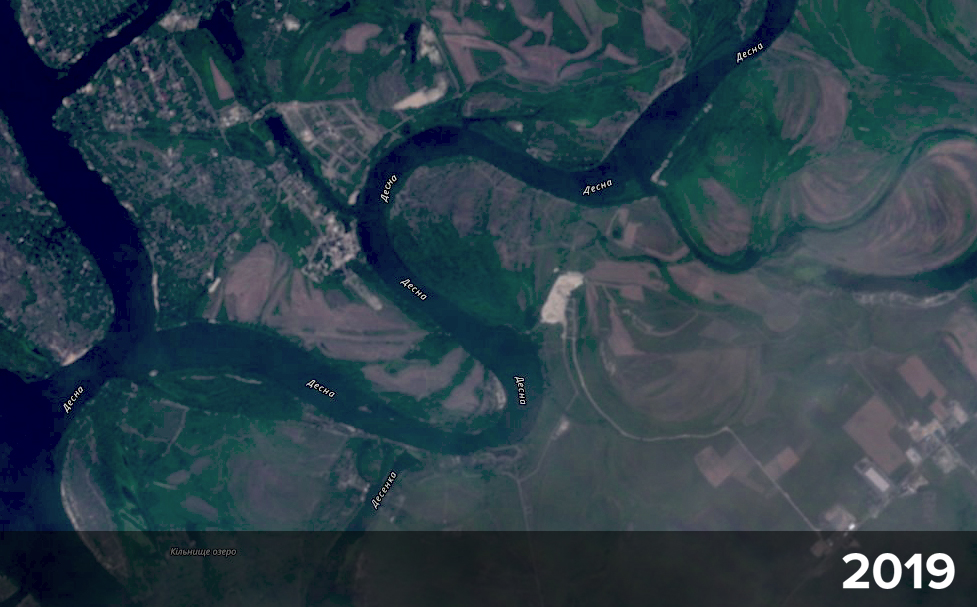
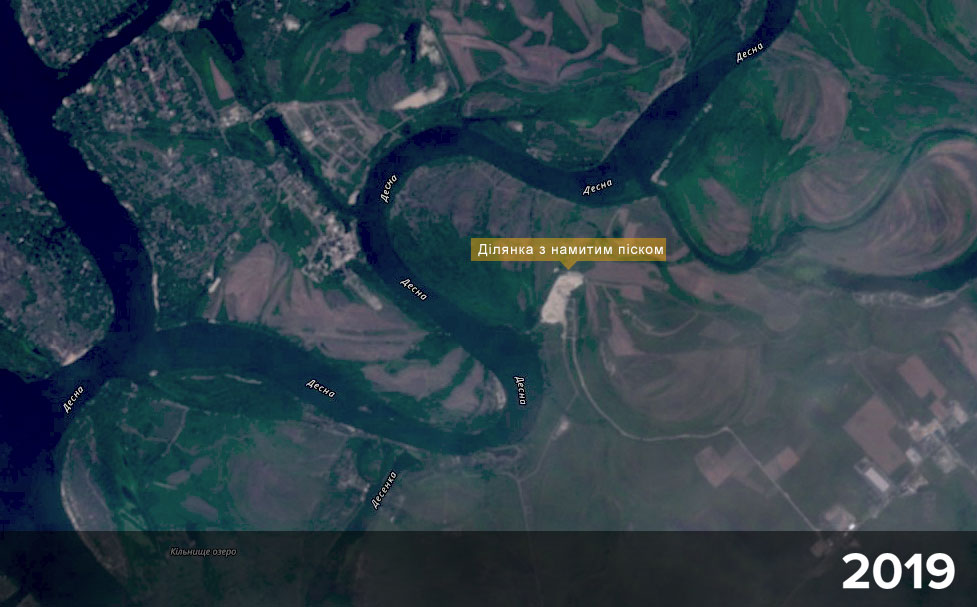
нові карти бокові

Changed region(s): [[0.4606, 0.3855, 0.7062, 0.4448]]

diff --git a/index.html b/index.html
@@ -88,11 +88,12 @@
 
     <p>Намивати пісок у Києві почали ще в 70-х роках минулого століття.  Фактично, Оболонь та всі житлові райони лівого берега Києва споруджені на намитих територіях. Проте пісок для намиву в ті часи переважно брали не з Дніпра, а видобували кар’єрним способом. На місці тих кар’єрів у Києві є кілька озер – зокрема, Тягле та Вирлиця.</p>
 
-        <aside>
-            <img src="img/01.jpg">
-        </aside>
 
     <p>«Золота доба» комерційного намиву почалася зо два десятки років тому. Саме тоді «нова» українська еліта відкрила для себе Конча-Заспу, територію на межі Києва та селища Козин. Тут жваво взялися зводити приватні будинки, переважно на намитих ділянках. Як відомо, попит породжує пропозицію – і в Кончі-Заспі розгорнулася справжня намивна лихоманка. Ділки активно починають використовувати землерийні снаряди, а також відпрацьовують схеми з отримання дозволів на видобуток піску. Беруть його тут же поруч – у Дніпрі. Такі самі процеси згодом починаються навпроти Кончі-Заспи, на лівому березі Дніпра. Загалом, за оцінкою еколога Олексія Василюка, з обох боків річки у цій її частині за допомогою намиву було утворено до 5 тисяч га нових шматків суходолу. </p>
+
+    <aside>
+        <img src="img/01.png">
+    </aside>
 
     <div class="content">
     <text>Тягніть слайдер, щоб побачити зміни берегової лінії в районі Конча-Заспи:</text>
@@ -110,7 +111,11 @@
     <p>Тільки-но елітна активність в Кончі-Заспі пішла на спад, як поряд відкрився новий потужний ринок. Це прокинувся Київ, у якому починався будівельний бум. На обслуговування столичного ринку спрямувала свої зусилля більшість намивачів піску. І його почали видобувати всюди – з Дніпра, Десни, київських озер і навіть з невеликих річок, які дивом збереглися.</p>
 
     <text>Видобуток піску в Десні поблизу Києва. Відео Дмитра Демченка:</text>
-    <div class="full-screen-content">
+
+    <aside>
+        <img src="img/02.png">
+    </aside>
+    <div class="fcontent">
         <video class="wide" controls="controls">
             <source src="video/DJI_0022.MP4">
         </video>
@@ -122,12 +127,11 @@
 
     <p>Навіть за наявності легальних дозволів чи погоджень на практиці неможливо проконтролювати, скільки піску добувають насправді. Не кажучи вже про те, що дехто робить це взагалі без жодних дозволів. Проблеми з паперами, здається, жодним чином не впливають на активність та амбіції намивачів. Іноді вони діють так, ніби ніяких законів в Україні не існує, беручи пісок як хочуть і де хочуть.</p>
 
-    <aside>
-        <img src="img/02.jpg">
-    </aside>
-
     <p>Одне з таких місць намиву розташоване буквально за кілька кілометрів від міської смуги, на Десні. Недалеко від цього місця за течією річки є родовище, яке нібито перебуває в розробці, але кордони родовища ніяким чином не перетинаються з місцем намиву. Про це місце знають активісти, тут неодноразово спалахували скандали, але пісок продовжують мити, а піщаний терикон стає все вищим. </p>
 
+    <aside>
+        <img src="img/03.png">
+    </aside>
     <div class="content">
         <text>Тягніть слайдер, щоб побачити, як створювався та розширювався майданчик по видобутку піску на Десні:</text>
         <div class="ba-slider">
@@ -149,7 +153,7 @@
     <p class="note">Але найнеприємніша знахідка очікує попереду. З одного боку під териконом б’є справжній гейзер брудної води, яку закачали разом з піском по трубі на берег, а тепер вона стікає знову до річки. Тобто, вздовж терикону тягнеться справжній потік брудної каламуті, який, впадаючи в річкові води, забарвлює їх у брунатний колір. І все це – менш ніж за кілометр від міського водозабірника, розташованого нижче по течії, вода з якого надходить до кранів киян.</p>
 
     <text>Біля терикону б'є справжній гейзер каламутної води, затягнутої земснарядом разом із піском:</text>
-    <div class="full-screen-content">
+    <div class="content">
         <video class="wide" controls="controls">
             <source src="video/20191016_122535.mp4">
         </video>
@@ -162,10 +166,6 @@
 
     <p>Інформація, яка є у відкритому доступі, свідчить, що «Балаклія» є власністю товариства з обмеженою відповідальністю з промовистою назвою «СОБІ». Згідно з відкритими даними в інтернеті, засновниками цього ТОВ є далеко не «випадкові» люди. Так, у базі помічників народних депутатів «Посіпаки» знаходимо одного з засновників ТОВ – Сергія Надєєва. Він був одночасно помічником на громадських засадах народних депутатів Верховної Ради 6 скликання (2007 – 2012 рр.) Сергія Соболєва (БЮТ) та Віталія Хомутиніка (Партія регіонів). Інший засновник – Анатолій Шалоплут – був помічником народного депутата 4 скликання Василя Горбаля (Партія регіонів). «СОБІ» має цілу флотилію буксирів та барж, серед заявлених в інтернеті послуг — продаж і доставка піску цілими баржами. Компанія також отримала спеціальний дозвіл на видобування піску на двох ділянках родовища “Деснянське-нижнє” на Десні.</p>
 
-    <aside>
-        <img src="img/04.jpg">
-    </aside>
-
     <p>Зовсім недалеко від цього місця, навпроти острова Муромець та впадіння Десни в Дніпро, є ще одне дуже популярне місце намиву. Баржі та земснаряди тут перебувають практично в межах Києва, навпроти одного з найбільших столичних парків «Дружби народів». З огляду на дані Автоматичної ідентифікаційної системи суден, це місце є улюбленим для багатьох компаній, у віданні яких є буксири, земснаряди чи баржі.</p>
 
     <p>Добувати тут зручно ще й тому, що місця складування піску – зовсім поруч, на Рибальському півострові та в його гавані. На тамтешній вулиці Електриків вказано багато юридичних адрес компаній та організацій, що торгують піском. Зокрема, є там і юридична адреса вже згаданого ТОВ «СОБІ».</p>
@@ -174,29 +174,31 @@
 
     <p>Трохи південніше за течією Дніпра, в районі Видубичів, теж є кілька майданчиків зі складування намитого піску. Зокрема, тут знаходиться промисловий майданчик одного з найбільших споживачів будматеріалу в Києві, а можливо і в Україні. Мова йде про Завод залізобетонних конструкцій ім. Ковальської. Загалом, промислово-будівельна група «Ковальська» оцінює свою річну потужність із виробництва товарних бетонів і розчинів у 4,6 млн кубометрів. Якщо брати до уваги, що для виготовлення одного кубометра бетону необхідно 0,4 – 0,8 тонн піску, то річна потреба «Ковальської» в ньому має становити в середньому понад два з половиною мільйони тонн. Цікаво, що при таких потребах «Ковальська» ще й знаходить можливість торгувати піском.</p>
 
+    <img class="wide" src="img/map.png">
+
     <p>Зовсім поруч із ділянкою «Ковальської» – Південний міст. Впродовж багатьох років активісти та громадські організації наголошували на незаконному намиванні піску безпосередньо біля мосту, що, за їхніми словами, негативно вплинуло на стан конструкції. Проте і сьогодні тут працюють буксири.</p>
 
     <p>Поряд із цим місцем є ще одна ділянка зі складування піску, яка належала «Мостобуду», що на сьогодні перебуває в процесі банкрутства. Згідно з даними сторони обвинувачення <a href="https://youcontrol.com.ua/catalog/court-document/80325658/" target="_blank">в судовій справі, що розглядалася Печерським районним судом на початку 2019 року</a>, на цій ділянці було зафіксовано складування річкового піску, а також «наявність спеціальної техніки» для його намиву. При цьому, серед техніки був земснаряд, що належав уже відомому нам ТОВ «СОБІ». Варто зазначити, що біля цієї ділянки дотепер спостерігається активність буксирів.</p>
 
     <p>Нижче за течією – між островом Водників та лівим берегом Дніпра – простяглося родовище «Осокорки». Дозвіл на видобуток піску тут отримала маловідома ТОВ «Сенд Контракт». Сам дозвіл видано зовсім недавно – у липні 2019 року, а компанія-видобувач створена трохи більше року тому. Її засновником є такий собі Дмитро Лук’янчіков, зареєстрований у Луганську.</p>
 
-    <text>Карта, яку доробляє Толік</text>
-    <img class="wide" src="img/2019.jpg">
-
-    <p>Розташованому вже на південній межі Києва Жуковому острову з прилеглими островами «пощастило» опинитися між двома найбільшими споживачами піску за всю новітню історію української держави. На південь від нього лежить величезна намивна територія Конча-Заспи, а на північ – постійно зростаючий Київ. Пісок на Жуковому острові добували всі – від «диких» намивачів до структурних підрозділів «Київміськбуду». На самому Жуковому острові останнім часом ми не помітили видобувних робіт, хоча, згідно з даними трекерів, активність навколо нього досі не затихає.</p>
-
-    <aside>
-        <img src="img/05.jpg">
-    </aside>
+      <p>Розташованому вже на південній межі Києва Жуковому острову з прилеглими островами «пощастило» опинитися між двома найбільшими споживачами піску за всю новітню історію української держави. На південь від нього лежить величезна намивна територія Конча-Заспи, а на північ – постійно зростаючий Київ. Пісок на Жуковому острові добували всі – від «диких» намивачів до структурних підрозділів «Київміськбуду». На самому Жуковому острові останнім часом ми не помітили видобувних робіт, хоча, згідно з даними трекерів, активність навколо нього досі не затихає.</p>
 
     <p>На прикладі саме цього острова можна прекрасно простежити, яке майбутнє на нас чекає, і до чого може призвести неконтрольований видобуток піску.</p>
 
     <p class="note orange">Коли через дамбу, що поєднує Жуків острів з «великою» землею, добираєшся до його південної частини, перегородженої від усього світу масивним бетонним парканом, виникає враження, що потрапив кудись у Сахару. Аж до неба здіймаються високі піщані терикони, між якими пролягає широка всипана піском площина. Людей тут не видно, а гуляти досить небезпечно: може засипати. І хоч видобуток ніби давно не ведеться, рослини так і не змогли пробитися крізь товстий шар піску. Лише де-не-де можна помітити якусь зовсім нетипову для цих місць, суто пустельну рослинність.</p>
 
+
+    <aside>
+        <img src="img/04.png">
+    </aside>
+    <div class="content">
+        <text>Добування піску на Жуковому острові місцями перетворило його на справжню пустелю:</text>
+        <img class="wide" src="img/zhukiv_island_slider_1.jpg">
+    </div>
     <p class="note">«Південна частина Жукового острова ще десять років тому активно замивалася, було замито піском понад 200 гектарів заплави Дніпра, дубового лісу, фактично, все знищено», – розповідає природозахисник Олександр Соколенко, який свого часу активно займався проблемами цього острова. За його словами, за цих десять років на острові практично нічого не відновилося. «Мають пройти десятки, якщо не сотні років, аби там міг відтворитися природний ландшафт. І це за умови, що весь пісок має бути вивезений. Лише після цього зможе відродитися рослинність», – додає Соколенко.</p>
 
-    <text>Добування піску на Жуковому острові місцями перетворило його на справжню пустелю:</text>
-    <img class="wide" src="img/zhukiv_island_slider_1.jpg">
+
     <img class="wide" src="img/zhukiv_island_slider_2.jpg">
     <img class="wide" src="img/zhukiv_island_slider_3.jpg">
 

diff --git a/css/styles.css b/css/styles.css
@@ -343,7 +343,7 @@ header {
 
 article {
   display: grid;
-  grid-template-columns: 1.2fr 3fr 0.8fr;
+  grid-template-columns: 1fr 3.2fr 0.8fr;
   margin: auto auto 300px auto;
   grid-template-rows: max-content; }
   @media (max-width: 1300px) {
@@ -375,7 +375,7 @@ article {
     width: 20%;
     margin: 10px 0; }
   article .content {
-    margin: 50px 0; }
+    margin: 0; }
   article text {
     width: max-content;
     font-size: 15px;
@@ -386,14 +386,14 @@ article {
   article aside {
     margin: 10px 0;
     grid-column: 1/2;
-    grid-row: span 4; }
+    display: flex; }
     article aside img {
-      width: 80%;
-      margin: 0 10%; }
+      width: 100%;
+      margin: auto; }
   article .wide {
     display: block;
     grid-column: 1/-1;
-    width: 85%;
+    width: 100%;
     margin: 20px auto; }
     @media (max-width: 800px) {
       article .wide {

diff --git a/scss/styles.scss b/scss/styles.scss
@@ -39,7 +39,7 @@ header {
 
 article {
   display: grid;
-  grid-template-columns: 1.2fr 3fr 0.8fr;
+  grid-template-columns: 1fr 3.2fr 0.8fr;
   margin: auto auto 300px auto;
   grid-template-rows: max-content;
   @media(max-width: 1300px){
@@ -88,7 +88,8 @@ article {
   }
 
   .content {
-    margin: 50px 0;
+    margin: 0;
+
   }
 
   text {
@@ -105,11 +106,12 @@ article {
   aside {
     margin: 10px 0;
     grid-column: 1/2;
-    grid-row: span 4;
+    display: flex;
+    //grid-row: span 4;
 
     img {
-      width:80%;
-      margin: 0 10%;
+      width:100%;
+      margin: auto;
     }
   }
 
@@ -118,7 +120,7 @@ article {
     grid-column: 1/-1;
     //max-height: 100vh;
     //max-width: 100%;
-    width: 85%;
+    width: 100%;
     margin: 20px auto;
     @media(max-width: 800px){
       width: 100%;
